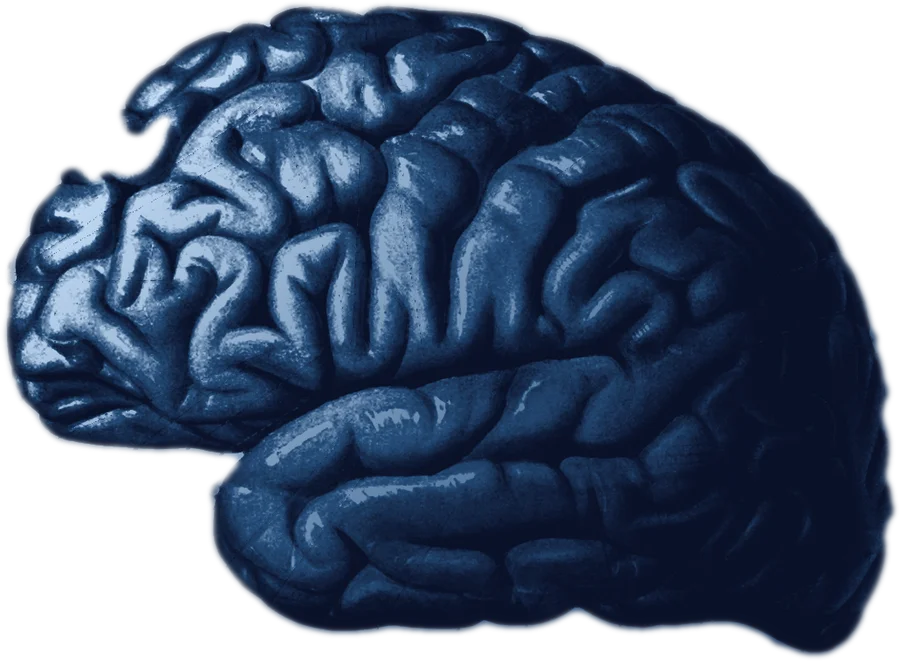
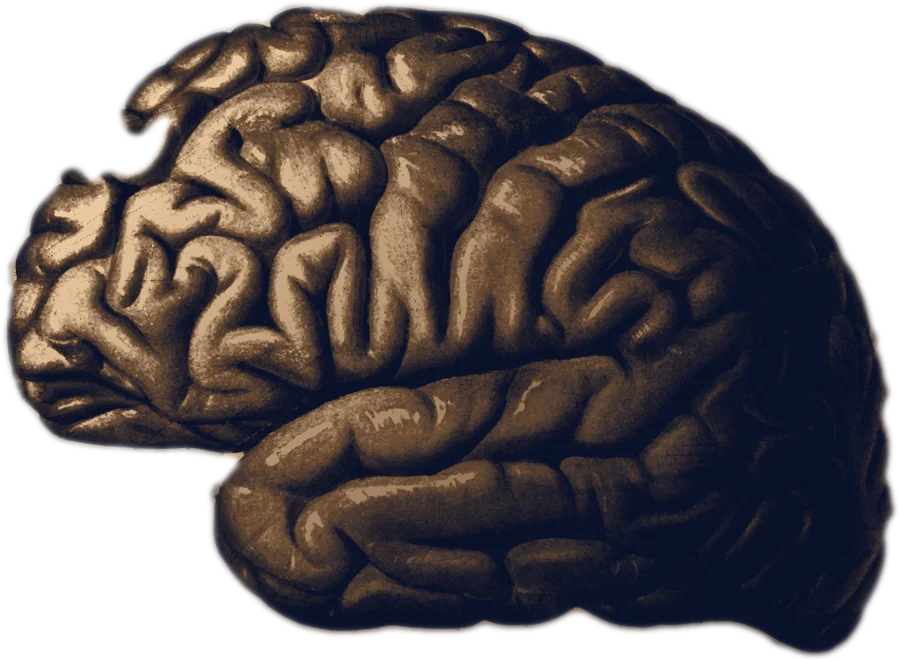
Nuovo colore d'accento oro/sabbia su tutto il sito; hero con cervello anatomico (Sobotta) in bronzo e ritratto scontornato; illustrazioni anatomiche in bronzo
Claude-Session: https://claude.ai/code/session_01KutUNZmbXa2PRUqu11jtbw

diff --git a/assets/style.css b/assets/style.css
@@ -10,7 +10,7 @@
 :root{
   --paper:#0A1128; --white:#131C3D; --paper-2:#1B2650; --line:#222D57; --line-2:#2A3766;
   --ink:#FFFFFF; --ink-soft:#C2CAE3; --ink-mute:#AEB8D6;
-  --teal:#5B9DFF; --teal-deep:#93BFFF; --teal-light:#1B2650; --amber:#FF7AC0; --mint:#7FE3D2; --gold:#FFC861;
+  --teal:#E8BF8E; --teal-deep:#F3D5AE; --teal-light:#1B2650; --amber:#FF7AC0; --mint:#7FE3D2; --gold:#FFC861;
   --r-xl:28px; --r-lg:22px; --r-md:14px; --r-sm:8px;
 }
 *{box-sizing:border-box;margin:0;padding:0}
@@ -231,16 +231,16 @@ footer .credit a{color:var(--teal);font-weight:700}
 }
 
 /* pulsanti: contorno luminoso + respiro lento sui principali */
-@keyframes respiro-blu{0%,100%{box-shadow:0 0 0 1px rgba(91,157,255,.55),0 0 14px rgba(91,157,255,.28)}50%{box-shadow:0 0 0 4px rgba(91,157,255,.22),0 0 30px rgba(91,157,255,.55)}}
+@keyframes respiro-blu{0%,100%{box-shadow:0 0 0 1px rgba(232,191,142,.55),0 0 14px rgba(232,191,142,.28)}50%{box-shadow:0 0 0 4px rgba(232,191,142,.22),0 0 30px rgba(232,191,142,.55)}}
 @keyframes respiro-blu-notte{0%,100%{box-shadow:0 0 0 1px rgba(10,17,40,.35),0 0 12px rgba(255,122,192,.25)}50%{box-shadow:0 0 0 4px rgba(255,122,192,.28),0 0 28px rgba(255,122,192,.45)}}
 @keyframes respiro-verde{0%,100%{box-shadow:0 0 0 0 rgba(37,211,102,.55),0 8px 20px rgba(0,0,0,.35)}50%{box-shadow:0 0 0 12px rgba(37,211,102,0),0 8px 20px rgba(0,0,0,.35)}}
 .btn{transition:background .2s,transform .2s,border-color .2s,color .2s,box-shadow .3s}
-.btn-primary{box-shadow:0 0 0 1px rgba(91,157,255,.55),0 0 14px rgba(91,157,255,.28)}
+.btn-primary{box-shadow:0 0 0 1px rgba(232,191,142,.55),0 0 14px rgba(232,191,142,.28)}
 .hero-actions .btn-primary,.callbar .btn-primary,.cta .btn-primary,.loc .btn-primary{animation:respiro-blu 3.2s ease-in-out infinite}
 .cta .btn-primary{animation-name:respiro-blu-notte}
 .btn-primary:hover{animation-play-state:paused}
-.btn-ghost{border-color:rgba(91,157,255,.5);box-shadow:0 0 12px rgba(91,157,255,.16),inset 0 0 10px rgba(91,157,255,.08)}
-.btn-ghost:hover{border-color:var(--teal);box-shadow:0 0 18px rgba(91,157,255,.35),inset 0 0 12px rgba(91,157,255,.12)}
+.btn-ghost{border-color:rgba(232,191,142,.5);box-shadow:0 0 12px rgba(232,191,142,.16),inset 0 0 10px rgba(232,191,142,.08)}
+.btn-ghost:hover{border-color:var(--teal);box-shadow:0 0 18px rgba(232,191,142,.35),inset 0 0 12px rgba(232,191,142,.12)}
 nav .btn{box-shadow:0 0 0 1px rgba(255,255,255,.6),0 0 16px rgba(255,255,255,.22)}
 .btn-wa{box-shadow:0 0 0 1px rgba(37,211,102,.6),0 0 16px rgba(37,211,102,.3)}
 .wa-float{animation:respiro-verde 2.8s ease-out infinite}
@@ -251,7 +251,7 @@ nav .btn{box-shadow:0 0 0 1px rgba(255,255,255,.6),0 0 16px rgba(255,255,255,.22
 .light{
   --paper:#F1EADA; --white:#FAF6EC; --paper-2:#E7DEC9; --line:#DCD1BA; --line-2:#C9BC9F;
   --ink:#0A1128; --ink-soft:#3B4566; --ink-mute:#566080;
-  --teal:#1E5BD6; --teal-deep:#1748AE; --amber:#B0156E; --mint:#0F766E;
+  --teal:#8A5A22; --teal-deep:#6E4517; --amber:#B0156E; --mint:#0F766E;
   background:var(--paper); color:var(--ink)
 }
 .light .btn-primary{background:#0A1128;color:#fff;box-shadow:none;animation:none}
@@ -407,7 +407,7 @@ nav .btn{box-shadow:0 0 0 1px rgba(255,255,255,.6),0 0 16px rgba(255,255,255,.22
   .dd:hover .sub,.dd:focus-within .sub{display:block}
   .dd .sub a{padding:10px 18px;font-size:14.5px}
   .dd .sub a:first-child{margin-top:8px}.dd .sub a:last-child{margin-bottom:8px}
-  .dd .sub a:hover{color:#fff;background:rgba(91,157,255,.12)}
+  .dd .sub a:hover{color:#fff;background:rgba(232,191,142,.12)}
 }
 @media(max-width:860px){
   .js nav.open{max-height:calc(100vh - 76px);overflow-y:auto}
@@ -424,12 +424,12 @@ nav .btn{box-shadow:0 0 0 1px rgba(255,255,255,.6),0 0 16px rgba(255,255,255,.22
 
 /* storia di un paziente (in evidenza sopra le recensioni Google) */
 .story{position:relative;max-width:860px;margin:0 auto 28px;padding:40px 44px 34px;background:#0A1128;border-radius:var(--r-lg);text-align:left;overflow:hidden;box-shadow:0 18px 40px rgba(10,17,40,.18)}
-.story::after{content:"";position:absolute;inset:auto -80px -120px auto;width:320px;height:320px;border-radius:50%;background:radial-gradient(circle,rgba(91,157,255,.28),transparent 70%)}
-.story-mark{font:800 96px/0.8 'Manrope',sans-serif;color:#5B9DFF;height:44px}
+.story::after{content:"";position:absolute;inset:auto -80px -120px auto;width:320px;height:320px;border-radius:50%;background:radial-gradient(circle,rgba(232,191,142,.28),transparent 70%)}
+.story-mark{font:800 96px/0.8 'Manrope',sans-serif;color:#E8BF8E;height:44px}
 .story blockquote{margin:0;font-size:clamp(20px,2.3vw,26px);line-height:1.45;font-weight:600;color:#fff;letter-spacing:-.01em;position:relative;z-index:1}
 .story figcaption{margin-top:20px;display:flex;flex-direction:column;gap:2px;position:relative;z-index:1}
 .story figcaption b{color:#fff;font-size:16px}
-.story figcaption span{color:#9FB0D6;font-size:14px}
+.story figcaption span{color:#B8BFD3;font-size:14px}
 @media(max-width:700px){.story{padding:30px 24px 26px}.story-mark{font-size:72px;height:34px}}
 /* titoli delle pubblicazioni cliccabili */
 .pub h3 a{color:inherit;text-decoration:none}
@@ -451,8 +451,8 @@ nav .btn{box-shadow:0 0 0 1px rgba(255,255,255,.6),0 0 16px rgba(255,255,255,.22
 .vid-grid{display:grid;grid-template-columns:repeat(auto-fill,minmax(300px,1fr));gap:18px}
 .vid{display:flex;flex-direction:column;background:var(--white);border:1px solid var(--line);border-radius:var(--r-lg);overflow:hidden}
 .vid-poster{position:relative;display:block;width:100%;aspect-ratio:16/9;border:0;padding:0;cursor:pointer;background:radial-gradient(120% 90% at 30% 20%,#1d3a6e 0%,#0A1128 70%);}
-.vid-poster::after{content:"";position:absolute;inset:0;background:repeating-linear-gradient(90deg,rgba(91,157,255,.05) 0 1px,transparent 1px 36px)}
-.vid-play{position:absolute;left:50%;top:50%;width:72px;height:72px;margin:-36px 0 0 -36px;border-radius:50%;background:#5B9DFF;box-shadow:0 0 0 10px rgba(91,157,255,.18),0 10px 30px rgba(0,0,0,.4);transition:transform .2s;z-index:1}
+.vid-poster::after{content:"";position:absolute;inset:0;background:repeating-linear-gradient(90deg,rgba(232,191,142,.05) 0 1px,transparent 1px 36px)}
+.vid-play{position:absolute;left:50%;top:50%;width:72px;height:72px;margin:-36px 0 0 -36px;border-radius:50%;background:#E8BF8E;box-shadow:0 0 0 10px rgba(232,191,142,.18),0 10px 30px rgba(0,0,0,.4);transition:transform .2s;z-index:1}
 .vid-play::before{content:"";position:absolute;left:29px;top:22px;border-style:solid;border-width:14px 0 14px 22px;border-color:transparent transparent transparent #0A1128}
 .vid-poster:hover .vid-play,.vid-poster:focus-visible .vid-play{transform:scale(1.08)}
 .vid-meta{display:flex;flex-direction:column;gap:8px;padding:18px 20px 20px}
@@ -464,20 +464,37 @@ nav .btn{box-shadow:0 0 0 1px rgba(255,255,255,.6),0 0 16px rgba(255,255,255,.22
 .vid-note{font-size:13px;color:var(--ink-mute);margin:10px 0 0}
 /* banner consenso cookie */
 .cc-open{background:none;border:0;padding:0;font:inherit;color:inherit;text-decoration:underline;cursor:pointer}
-.cc{position:fixed;left:16px;right:16px;bottom:16px;z-index:1000;max-width:620px;margin:0 auto;background:#0E1733;color:#E6ECFA;border:1px solid rgba(91,157,255,.35);border-radius:18px;padding:20px 22px 18px;box-shadow:0 20px 50px rgba(0,0,0,.45);font-size:15px;line-height:1.5}
-.cc a{color:#93BFFF}
+.cc{position:fixed;left:16px;right:16px;bottom:16px;z-index:1000;max-width:620px;margin:0 auto;background:#0E1733;color:#E6ECFA;border:1px solid rgba(232,191,142,.35);border-radius:18px;padding:20px 22px 18px;box-shadow:0 20px 50px rgba(0,0,0,.45);font-size:15px;line-height:1.5}
+.cc a{color:#F3D5AE}
 .cc-t{margin:0 26px 14px 0}
-.cc-x{position:absolute;top:8px;right:10px;background:none;border:0;color:#9FB0D6;font-size:26px;line-height:1;cursor:pointer;padding:4px 8px}
+.cc-x{position:absolute;top:8px;right:10px;background:none;border:0;color:#B8BFD3;font-size:26px;line-height:1;cursor:pointer;padding:4px 8px}
 .cc-detail{margin:0 0 14px}
 .cc-row{display:flex;gap:10px;align-items:flex-start;padding:10px 0;border-top:1px solid rgba(255,255,255,.08);cursor:pointer}
-.cc-row input{margin-top:4px;width:18px;height:18px;accent-color:#5B9DFF;flex:none}
-.cc-tech{font-size:13px;color:#9FB0D6;margin:8px 0 0}
+.cc-row input{margin-top:4px;width:18px;height:18px;accent-color:#E8BF8E;flex:none}
+.cc-tech{font-size:13px;color:#B8BFD3;margin:8px 0 0}
 .cc-btns{display:flex;flex-wrap:wrap;gap:10px;justify-content:flex-end}
-.cc-b{flex:1 1 auto;min-width:110px;padding:11px 16px;border-radius:12px;border:1px solid rgba(91,157,255,.5);background:transparent;color:#fff;font:600 15px/1 'Manrope',sans-serif;cursor:pointer}
-.cc-b.cc-yes{background:#5B9DFF;border-color:#5B9DFF;color:#0A1128}
-.cc-b:hover{border-color:#93BFFF}
+.cc-b{flex:1 1 auto;min-width:110px;padding:11px 16px;border-radius:12px;border:1px solid rgba(232,191,142,.5);background:transparent;color:#fff;font:600 15px/1 'Manrope',sans-serif;cursor:pointer}
+.cc-b.cc-yes{background:#E8BF8E;border-color:#E8BF8E;color:#0A1128}
+.cc-b:hover{border-color:#F3D5AE}
 @media(max-width:860px){.cc{bottom:84px}}
 
 .facts{list-style:none;padding:0;margin:10px 0 0;display:grid;gap:8px}
 .facts li{padding-left:0}
 .facts b{display:inline-block;min-width:52px;color:var(--teal);font-size:20px}
+
+/* hero con cervello anatomico e ritratto scontornato (proposta Antonio 23.11) */
+.hero{position:relative;overflow:hidden}
+.hero::before{content:"";position:absolute;right:-6%;top:50%;width:min(1200px,92vw);aspect-ratio:1400/1023;transform:translateY(-50%);background:url(../img/anatomia/cervello-hero.webp) center/contain no-repeat;opacity:.75;pointer-events:none}
+.hero::after{content:"";position:absolute;inset:0;background:linear-gradient(90deg,#0A1128 0%,rgba(10,17,40,.88) 32%,rgba(10,17,40,.25) 62%,rgba(10,17,40,0) 80%),linear-gradient(0deg,#0A1128 0%,rgba(10,17,40,0) 22%);pointer-events:none}
+.hero .wrap{position:relative;z-index:1}
+.hero .portrait.cut{background:none;border:0;box-shadow:none;border-radius:0;overflow:visible}
+.hero .portrait.cut img{border-radius:0;box-shadow:none;filter:drop-shadow(0 30px 40px rgba(0,0,0,.45))}
+.hero .portrait.cut::before,.hero .portrait.cut::after{display:none}
+@media(max-width:900px){
+  .hero::before{right:-30%;top:22%;width:150vw;opacity:.45}
+  .hero::after{background:linear-gradient(0deg,#0A1128 0%,rgba(10,17,40,.65) 45%,rgba(10,17,40,.3) 100%)}
+}
+.hero .portrait.cut{aspect-ratio:auto;align-self:end}
+.hero .portrait.cut img{height:auto;object-fit:contain}
+@media(max-width:900px){.hero .portrait.cut{aspect-ratio:auto;max-width:440px;margin:0 auto}}
+@media(min-width:901px){.hero::before{right:max(0px,calc(50vw - 760px));width:min(980px,62vw);top:52%;opacity:.8}}

diff --git a/index.html b/index.html
@@ -126,8 +126,8 @@
         <a href="#sedi" class="btn btn-ghost">Sedi e prenotazioni</a>
       </div>
     </div>
-    <figure class="portrait">
-      <img src="img/dott-antonio-colamaria.webp" alt="Il Dott. Antonio Colamaria, neurochirurgo, alla scrivania del suo studio" width="840" height="758" fetchpriority="high">
+    <figure class="portrait cut">
+      <img src="img/dott-antonio-colamaria-scontornato.webp" alt="Il Dott. Antonio Colamaria, neurochirurgo" width="840" height="758" fetchpriority="high">
     </figure>
   </div>
 </section>
